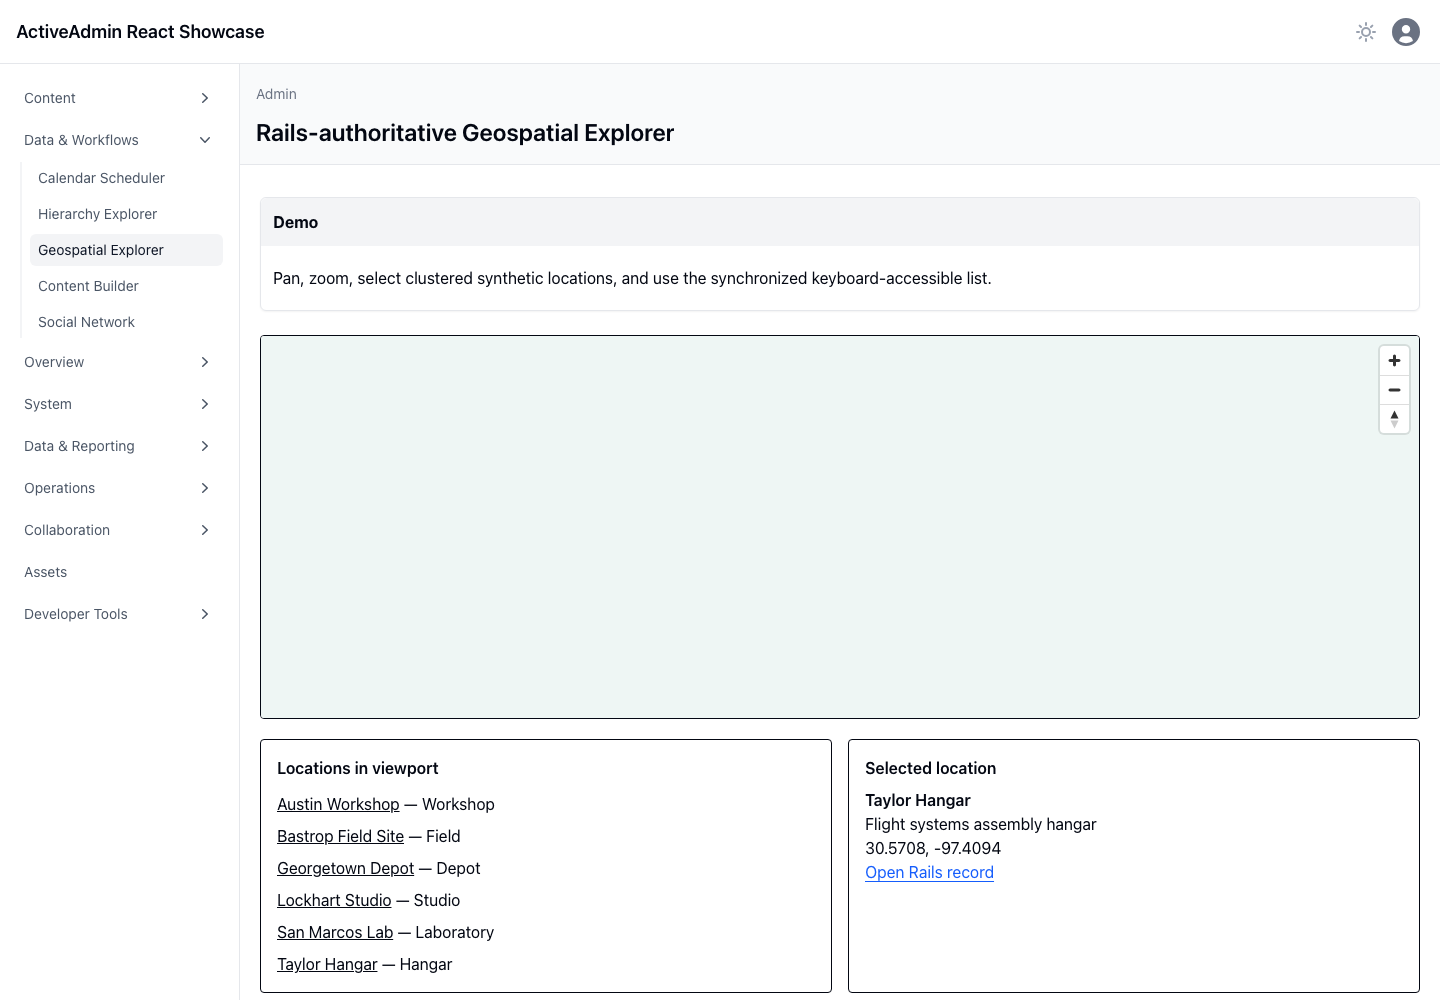
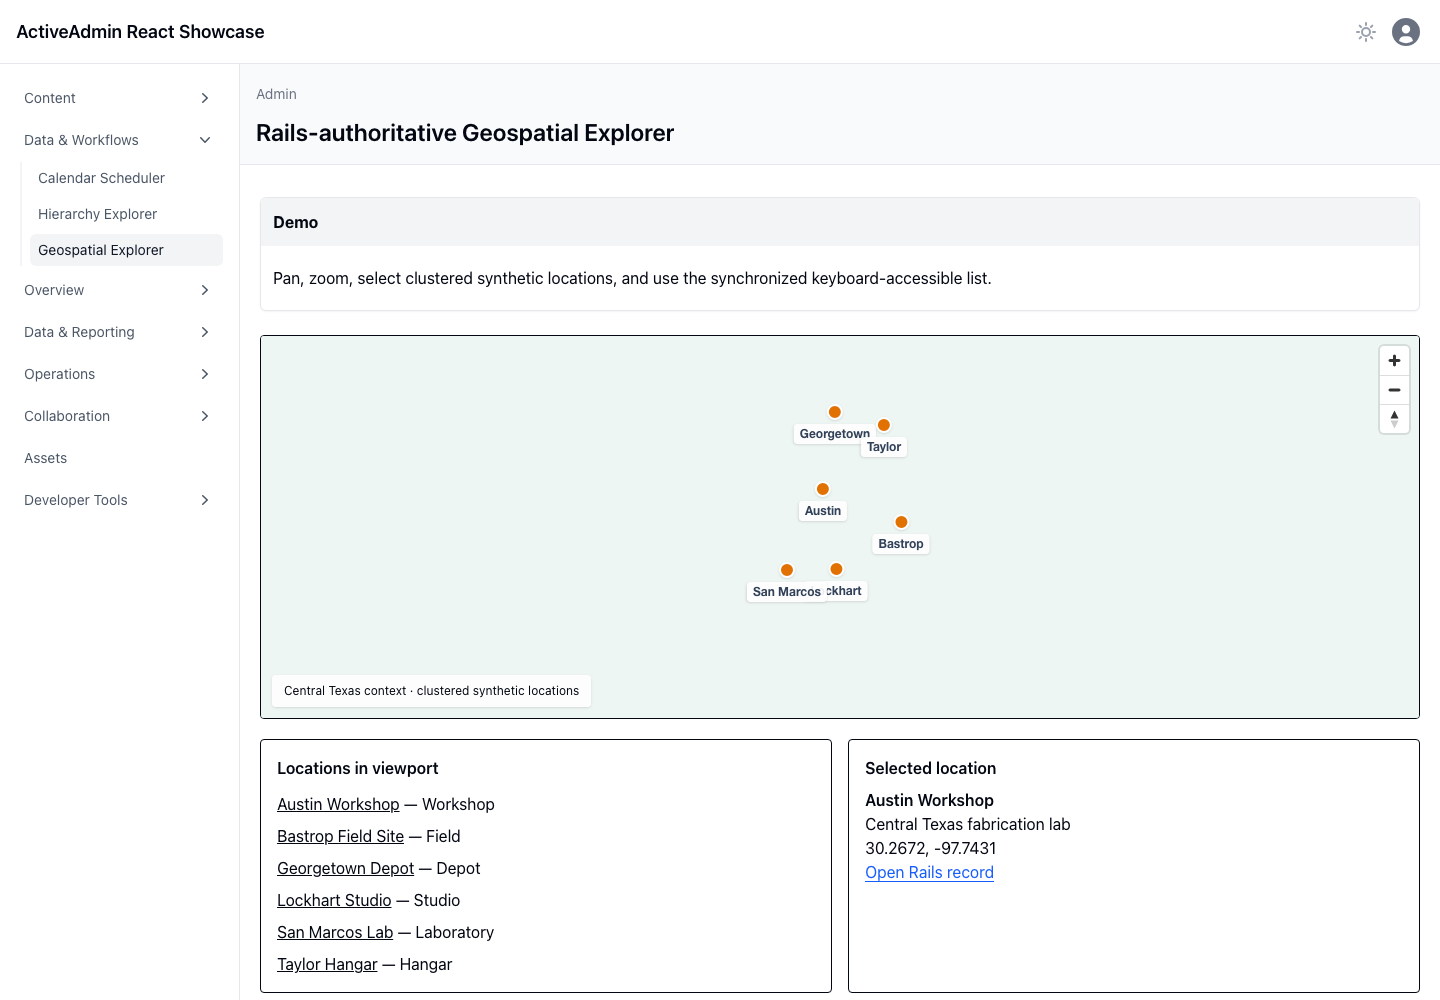
docs: recapture wider geospatial context

diff --git a/app/frontend/components/GeospatialExplorer.tsx b/app/frontend/components/GeospatialExplorer.tsx
@@ -1,11 +1,25 @@
 // app/frontend/components/GeospatialExplorer.tsx
 
-import { type GeoJSONSource, Map as MapLibreMap, type MapLayerMouseEvent, NavigationControl } from "maplibre-gl"
+import { type GeoJSONSource, Map as MapLibreMap, type MapLayerMouseEvent, Marker, NavigationControl } from "maplibre-gl"
 import "maplibre-gl/dist/maplibre-gl.css"
 import { useEffect, useRef, useState } from "react"
 
 type Location = { category: string, id: string, latitude: number, longitude: number, name: string, summary: string, url: string }
 export type GeospatialExplorerProps = { endpoint: string, initialLocations: Location[] }
+
+const mapContext = {
+  type: "FeatureCollection" as const,
+  features: [
+    { type: "Feature" as const, geometry: { type: "Polygon" as const, coordinates: [[[-98.35, 29.55], [-96.85, 29.55], [-96.85, 30.95], [-98.35, 30.95], [-98.35, 29.55]]] }, properties: { kind: "region" } },
+    { type: "Feature" as const, geometry: { type: "LineString" as const, coordinates: [[-98.1, 29.75], [-97.9414, 29.8833], [-97.7431, 30.2672], [-97.6779, 30.6333], [-97.6, 30.82]] }, properties: { kind: "corridor", name: "I-35 corridor" } },
+    { type: "Feature" as const, geometry: { type: "LineString" as const, coordinates: [[-98.15, 30.22], [-97.7431, 30.2672], [-97.3153, 30.1105], [-97.05, 30.05]] }, properties: { kind: "corridor", name: "Highway 71" } },
+    { type: "Feature" as const, geometry: { type: "LineString" as const, coordinates: [[-97.67, 29.8849], [-97.56, 30.18], [-97.4094, 30.5708]] }, properties: { kind: "corridor", name: "Eastern corridor" } }
+  ]
+}
+const cityLabels = [
+  ["Austin", -97.7431, 30.2672], ["Bastrop", -97.3153, 30.1105], ["Georgetown", -97.6779, 30.6333],
+  ["Lockhart", -97.67, 29.8849], ["San Marcos", -97.9414, 29.8833], ["Taylor", -97.4094, 30.5708]
+] as const
 
 function geoJson(locations: Location[]) {
   return { type: "FeatureCollection" as const, features: locations.map((location) => ({
@@ -20,6 +34,7 @@ export default function GeospatialExplorer({ endpoint, initialLocations }: Geosp
   const map = useRef<MapLibreMap | null>(null)
   const [error, setError] = useState<string | null>(null)
   const [loading, setLoading] = useState(false)
+  const [ready, setReady] = useState(false)
   const [locations, setLocations] = useState(initialLocations)
   const [selectedId, setSelectedId] = useState(initialLocations[0]?.id || null)
   const selected = locations.find((location) => location.id === selectedId)
@@ -38,12 +53,29 @@ export default function GeospatialExplorer({ endpoint, initialLocations }: Geosp
     map.current = instance
     instance.addControl(new NavigationControl(), "top-right")
     instance.on("load", () => {
+      instance.addSource("context", { type: "geojson", data: mapContext })
+      instance.addLayer({ id: "context-region", type: "fill", source: "context", paint: { "fill-color": "#c8e6d9", "fill-opacity": 0.75 } })
+      instance.addLayer({ id: "context-corridors", type: "line", source: "context", paint: { "line-color": "#64748b", "line-width": 4 } })
+      cityLabels.forEach(([name, longitude, latitude]) => {
+        const marker = document.createElement("div")
+        marker.className = "flex -translate-y-3 flex-col items-center"
+        const pin = document.createElement("span")
+        pin.className = "h-4 w-4 rounded-full border-2 border-white bg-amber-600 shadow"
+        const label = document.createElement("span")
+        label.className = "mt-1 rounded bg-white/90 px-1.5 py-0.5 text-xs font-semibold text-slate-700 shadow"
+        label.textContent = name
+        marker.append(pin, label)
+        new Marker({ element: marker }).setLngLat([longitude, latitude]).addTo(instance)
+      })
       instance.addSource("locations", { type: "geojson", data: geoJson(initialLocations), cluster: true, clusterMaxZoom: 12, clusterRadius: 45 })
-      instance.addLayer({ id: "clusters", type: "circle", source: "locations", filter: ["has", "point_count"], paint: { "circle-color": "#0f766e", "circle-radius": 22 } })
-      instance.addLayer({ id: "points", type: "circle", source: "locations", filter: ["!", ["has", "point_count"]], paint: { "circle-color": "#b45309", "circle-radius": 9 } })
+      instance.addLayer({ id: "clusters", type: "circle", source: "locations", filter: ["has", "point_count"], paint: { "circle-color": "#0f766e", "circle-radius": 22, "circle-stroke-color": "#ffffff", "circle-stroke-width": 2 } })
+      instance.addLayer({ id: "points", type: "circle", source: "locations", filter: ["!", ["has", "point_count"]], paint: { "circle-color": "#b45309", "circle-radius": 9, "circle-stroke-color": "#ffffff", "circle-stroke-width": 2 } })
       instance.on("click", "points", (event: MapLayerMouseEvent) => {
         const id = event.features?.[0]?.properties?.id as string | undefined
         if (id) setSelectedId(id)
+      })
+      instance.once("render", () => {
+        window.requestAnimationFrame(() => window.requestAnimationFrame(() => setReady(true)))
       })
     })
     instance.on("moveend", async () => {
@@ -80,7 +112,10 @@ export default function GeospatialExplorer({ endpoint, initialLocations }: Geosp
     <section className="space-y-5" data-testid="geospatial-explorer">
       {error && <p className="text-red-700" role="alert">{error}</p>}
       {loading && <p aria-live="polite" role="status">Loading viewport…</p>}
-      <div aria-label="Interactive location map" className="h-96 overflow-hidden rounded border" data-testid="map" ref={container} />
+      <div className="relative">
+        <div aria-label="Interactive location map" className="h-96 overflow-hidden rounded border" data-ready={ready} data-testid="map" ref={container} />
+        <p className="absolute bottom-3 left-3 rounded bg-white/90 px-3 py-2 text-xs shadow">Central Texas context · clustered synthetic locations</p>
+      </div>
       <div className="grid gap-4 lg:grid-cols-2">
         <section aria-label="Locations" className="rounded border p-4"><h3 className="font-semibold">Locations in viewport</h3>
           {locations.length === 0 ? <p>No locations in this region.</p> : <ul className="mt-3 space-y-2">{locations.map((location) => <li key={location.id}><button aria-pressed={selectedId === location.id} className="underline" onClick={() => select(location)} type="button">{location.name}</button> <span>— {location.category}</span></li>)}</ul>}

diff --git a/app/frontend/components/GeospatialExplorer.test.tsx b/app/frontend/components/GeospatialExplorer.test.tsx
@@ -6,6 +6,10 @@ import { afterEach, describe, expect, it, vi } from "vitest"
 
 const state = vi.hoisted(() => ({ instances: [] as any[], missingSource: false }))
 vi.mock("maplibre-gl", () => {
+  class Marker {
+    addTo = vi.fn(() => this)
+    setLngLat = vi.fn(() => this)
+  }
   class Map {
     handlers: Record<string, Function[]> = {}
     source = { setData: vi.fn() }
@@ -21,10 +25,11 @@ vi.mock("maplibre-gl", () => {
       this.handlers[event] ||= []
       this.handlers[event].push(handler)
     }
+    once(event: string, handler: Function) { this.on(event, handler) }
     remove = vi.fn()
     emit(event: string, payload?: object) { this.handlers[event]?.forEach((handler) => handler(payload)) }
   }
-  return { Map, NavigationControl: class NavigationControl {} }
+  return { Map, Marker, NavigationControl: class NavigationControl {} }
 })
 
 import GeospatialExplorer from "./GeospatialExplorer"
@@ -33,15 +38,19 @@ const first = { category: "Workshop", id: "1", latitude: 30.2, longitude: -97.7,
 const second = { ...first, id: "2", name: "Taylor Hangar", summary: "Assembly" }
 const response = (body: object, ok = true) => Promise.resolve({ json: () => Promise.resolve(body), ok } as Response)
 
-afterEach(() => { state.instances.length = 0; state.missingSource = false; vi.restoreAllMocks() })
+afterEach(() => { state.instances.length = 0; state.missingSource = false; vi.restoreAllMocks(); vi.unstubAllGlobals() })
 
 describe("GeospatialExplorer", () => {
   it("initializes, clusters, selects from list and map, refreshes viewport, and disposes", async () => {
+    vi.stubGlobal("requestAnimationFrame", (callback: FrameRequestCallback) => { callback(0); return 1 })
     const fetchMock = vi.spyOn(globalThis, "fetch").mockReturnValue(response({ locations: [second] }))
     const { unmount } = render(<GeospatialExplorer endpoint="/locations" initialLocations={[first, second]} />)
     const map = state.instances[0]
     act(() => map.emit("load"))
+    expect(map.addSource).toHaveBeenCalledWith("context", expect.objectContaining({ type: "geojson" }))
     expect(map.addSource).toHaveBeenCalledWith("locations", expect.objectContaining({ cluster: true }))
+    act(() => map.emit("render"))
+    expect(screen.getByTestId("map")).toHaveAttribute("data-ready", "true")
     await userEvent.click(screen.getByRole("button", { name: "Taylor Hangar" }))
     expect(map.flyTo).toHaveBeenCalled()
     act(() => map.emit("click", { features: [{ properties: { id: "1" } }] }))

diff --git a/test/browser/geospatial_explorer.spec.ts b/test/browser/geospatial_explorer.spec.ts
@@ -3,6 +3,7 @@
 import { expect, test } from "@playwright/test"
 
 test("loads the credential-free map and synchronizes keyboard selection", async ({ page }) => {
+  await page.setViewportSize({ height: 1000, width: 1440 })
   await page.goto("/admin/login")
   await page.getByLabel("Email").fill("admin@example.test")
   await page.getByLabel("Password").fill("showcase-password")
@@ -10,7 +11,12 @@ test("loads the credential-free map and synchronizes keyboard selection", async 
   await expect(page).toHaveURL(/\/admin(?:\/)?$/)
   await page.goto("/admin/geospatial_explorer")
 
+  await expect(page.getByTestId("map")).toHaveAttribute("data-ready", "true")
   await expect(page.getByTestId("map").locator("canvas")).toBeVisible()
+  await expect(page.getByText("Central Texas context · clustered synthetic locations")).toBeVisible()
+  if (process.env.CAPTURE_SHOWCASE_SCREENSHOTS) {
+    await page.screenshot({ path: "docs/screenshots/geospatial-explorer.png" })
+  }
   await page.getByRole("button", { name: "Taylor Hangar" }).click()
   await expect(page.getByRole("region", { name: "Selected location" })).toContainText("Taylor Hangar")
   await page.locator(".maplibregl-ctrl-zoom-in").click()

diff --git a/docs/geospatial-explorer.md b/docs/geospatial-explorer.md
@@ -4,7 +4,7 @@
 
 ## Demo
 
-The ActiveAdmin page renders six deterministic Central Texas locations. Pan or zoom the credential-free MapLibre canvas, select clustered markers, or use the synchronized keyboard-accessible list. The ordinary fallback table links to the same Rails records.
+The ActiveAdmin page renders six deterministic Central Texas locations. Pan or zoom the credential-free MapLibre canvas, select clustered markers, or use the synchronized keyboard-accessible list. A small local reference layer supplies regional bounds, corridors, and city labels without contacting a tile provider. The ordinary fallback table links to the same Rails records.
 
 ## Ruby
 
@@ -16,14 +16,15 @@ The lazily loaded React island gives bounded GeoJSON to MapLibre. Map state, clu
 
 ## Architecture
 
-No API key, remote tile service, or geospatial database is required. Provider code stays in the showcase; SQLite remains authoritative and the normalized schema remains portable to PostgreSQL if measured demand warrants it.
+No API key, remote tile service, or geospatial database is required. The lightweight context layer is deterministic presentation data, not a substitute for a production basemap. Provider code stays in the showcase; SQLite remains authoritative and the normalized schema remains portable to PostgreSQL if measured demand warrants it.
 
-+## Screenshot
+## Screenshot
 
 This durable capture was produced by Playwright in real Chromium from the six
 deterministic synthetic locations. It supplements the browser interaction suite.
+Regenerate it with `CAPTURE_SHOWCASE_SCREENSHOTS=1 bin/browser-test`.
 
-![Geospatial explorer with Taylor Hangar selected](screenshots/geospatial-explorer.png)
+![Wide Central Texas map with clustered showcase locations and the selected location panel](screenshots/geospatial-explorer.png)
 
 —
 Stan Carver II
